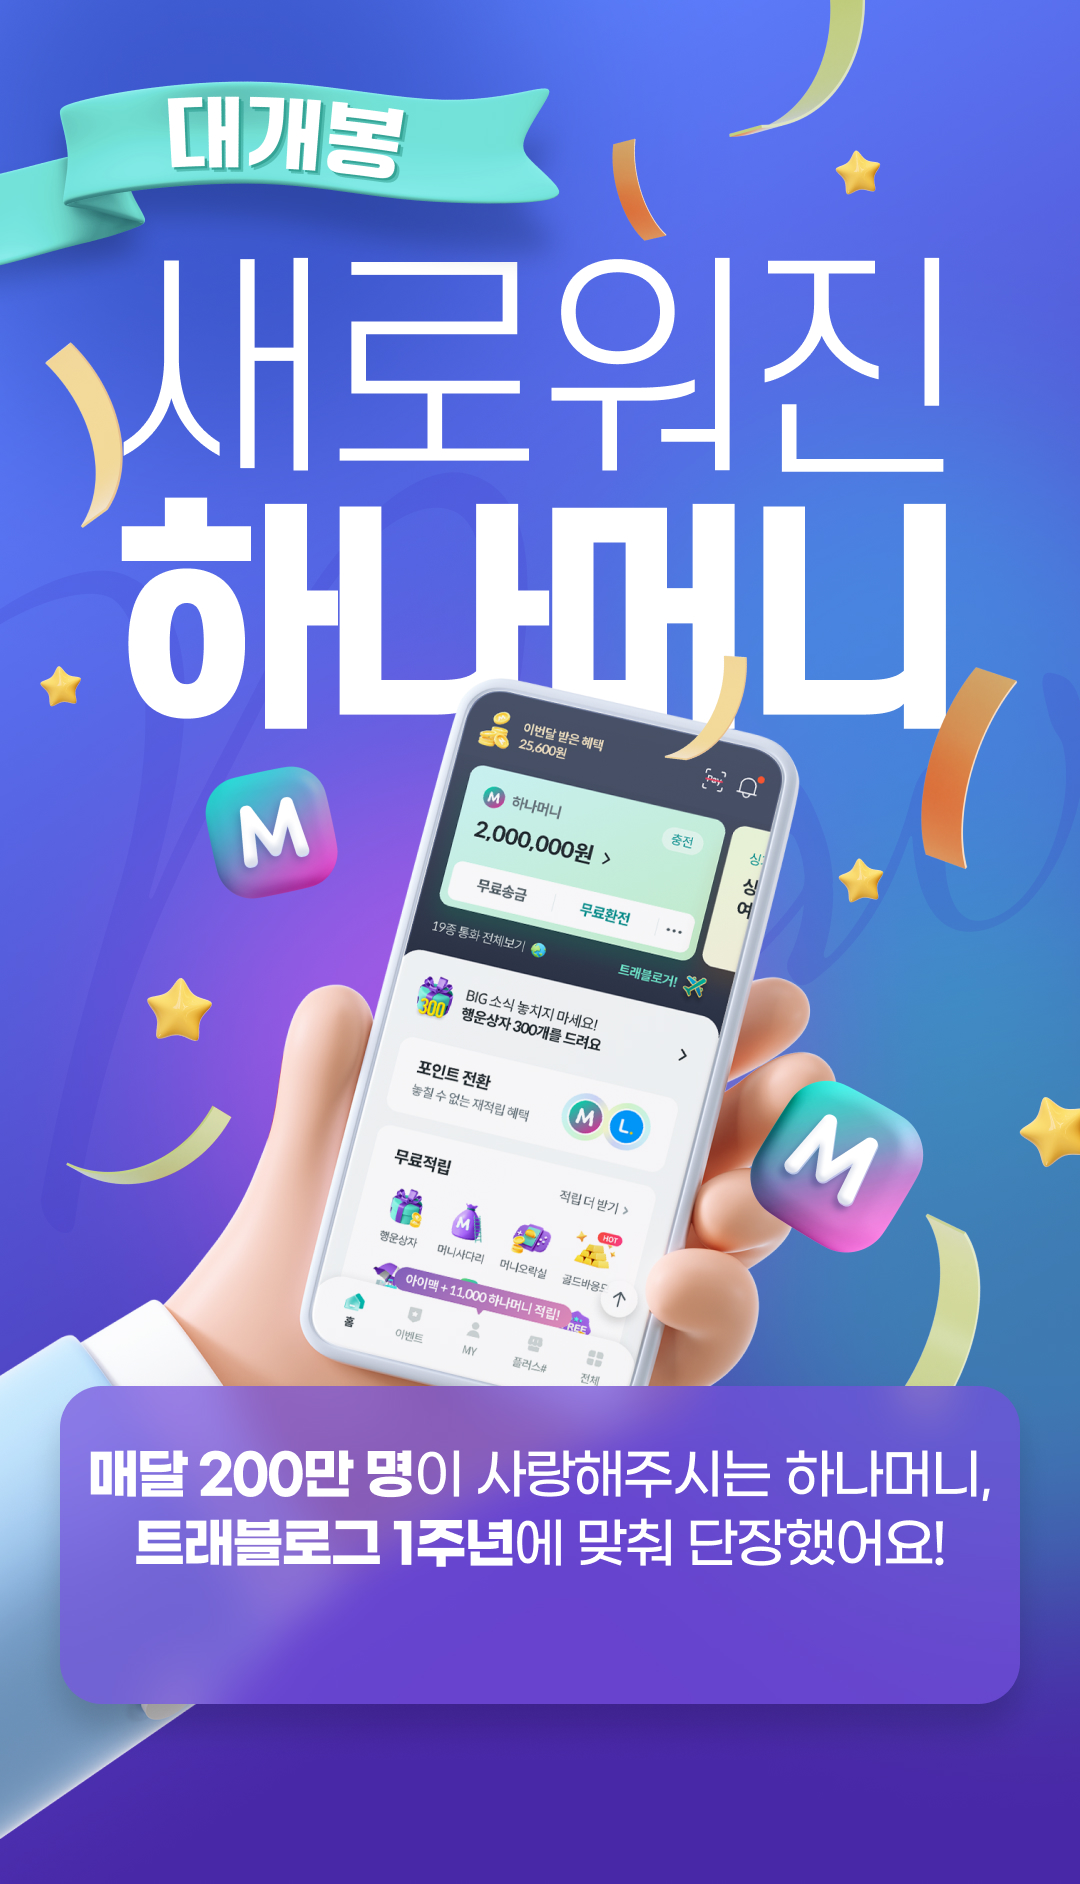
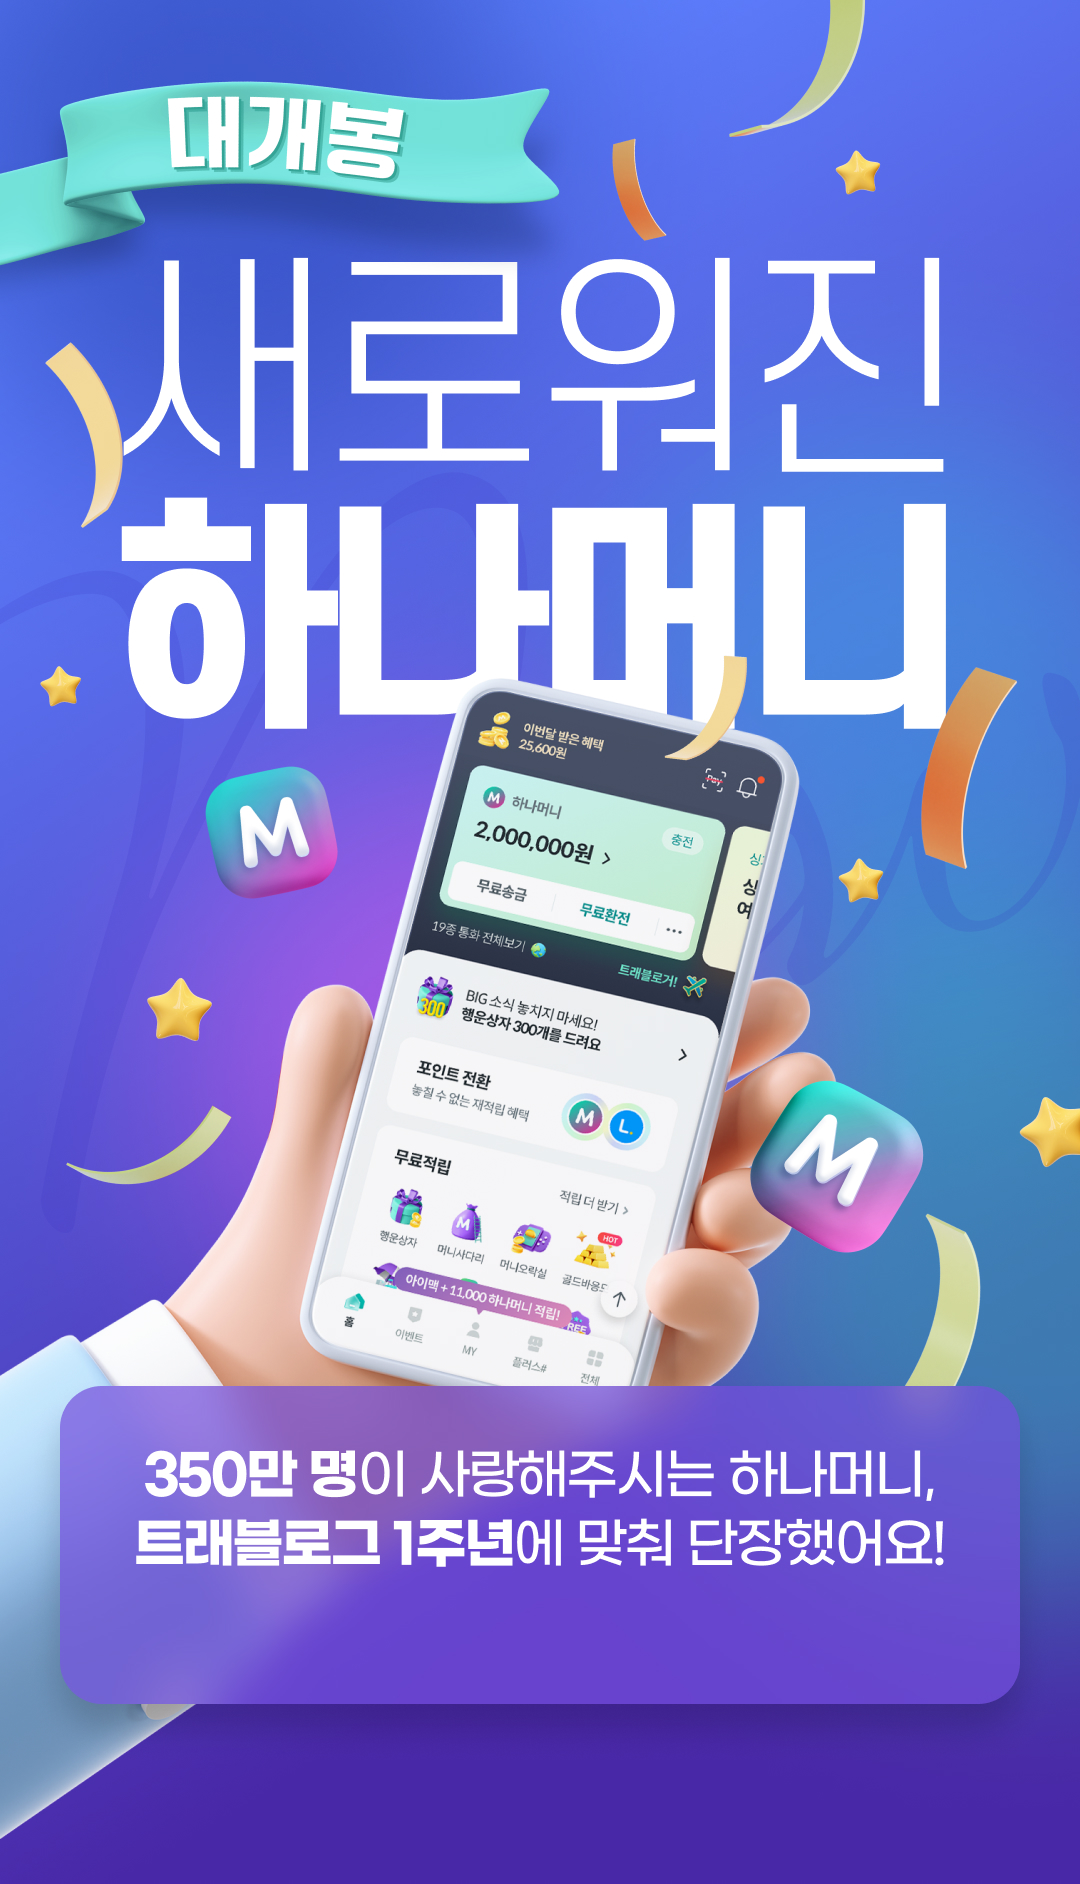
event test

Changed region(s): [[0.0611, 0.7696, 0.9167, 0.8004]]

diff --git a/html/event_test/WEB-INF/jsp/hnm/mob/nrcHtml/EVE/renewal.html b/html/event_test/WEB-INF/jsp/hnm/mob/nrcHtml/EVE/renewal.html
@@ -42,7 +42,7 @@
             <div class="event_visual_top">
               <img src="../../../../../../resources/event/images/renewal_top_bg.jpg" aria-hidden="true" alt="">
               <h2 class="screen_out">대개봉 새로워진 하나머니</h2> 
-              <p class="screen_out">매달 200만 명이 사랑해주시는 하나머니, 트래블로그 1주년에 맞춰 단장했어요!</p>
+              <p class="screen_out">350만 명이 사랑해주시는 하나머니, 트래블로그 1주년에 맞춰 단장했어요!</p>
               <p class="event_date">2023.07.00 ~ 2023.08.00</p> <!-- 이벤트 날짜 -->
             </div>
             <div class="renewal_event_contents">
@@ -349,10 +349,11 @@
   .event_link_box.bg06::before {content:''; position: absolute; top: -1.6rem; right: 1.6rem; width: 10.4rem; height: 10.4rem; background: url('../.../../../../../../../resources/event/images/img_link_bg06.png') no-repeat top center; background-size: 100%;}
   .event_link_box.complete {background: #F9F9F9;}
   .event_link_box.complete::before {content:''; position: absolute; top: -1.6rem; right: 1.6rem; width: 8rem; height: 8rem; background: url('../.../../../../../../../resources/event/images/ico_complete2.png') no-repeat top center; background-size: 100%;}
-  .event_link_box.complete h2,
+  .event_link_box.complete h3 {color: #69777E;}
   .event_link_box.complete p,
-  .event_link_box.complete span {color: #69777E; opacity: 0.8;}
+  .event_link_box.complete .bottom_info {color: #69777E; opacity: 0.8;}
   .event_link_box.complete button {background: #9DAAB0; box-shadow: 0 0 0 0 rgba(157, 170, 176, 0.20), 0 0.1rem .3rem 0 rgba(157, 170, 176, 0.20), 0 .5rem .5rem 0 rgba(157, 170, 176, 0.17), 0 1.1rem .7rem 0 rgba(157, 170, 176, 0.10), 0 2rem .8rem 0 rgba(157, 170, 176, 0.03), 0 3.1rem .9rem 0 rgba(157, 170, 176, 0.00);}
+  .event_link_box.complete .point_icon::before {background-image: url('../../../../../../resources/event/images/img_point_complete.png');}
   .event_btn_area {position: absolute; bottom: 0; left: 0; width: 100%; margin-bottom: calc(267 / var(--width) * 100%); padding-bottom: calc(324 / var(--width) * 100%);}
   .event_btn_area > div {display: flex; justify-content: center; align-items: center; flex-direction: column; position: absolute; left: 0; top: 0; width: 100%; height: 100%;}
   .event_btn_area button {display: inline-block; width: calc(840 / var(--width) * 100%); height: 100%; margin: calc(15 / var(--width) * 100%) 0;}
